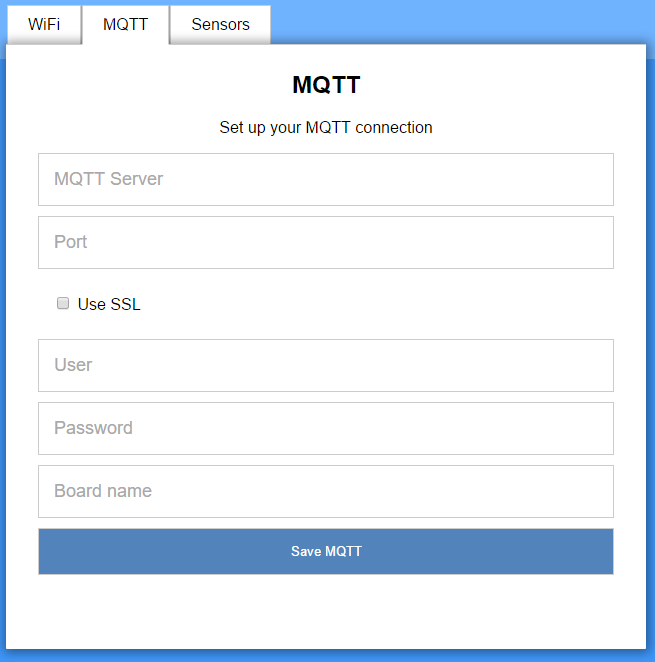
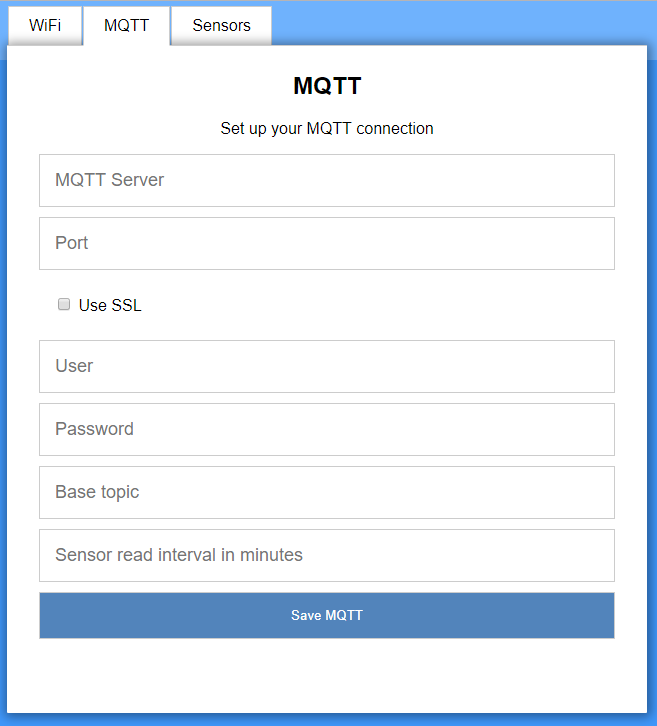
Updated readme

diff --git a/README.md b/README.md
@@ -1,33 +1,38 @@
-# mqtt8266Sensor [![Build Status](https://travis-ci.org/SveLil/mqtt8266Sensor.svg?branch=master)](https://travis-ci.org/SveLil/mqtt8266Sensor) [![Codacy Badge](https://api.codacy.com/project/badge/Grade/0e9e407daa7a449e8e44a02a3651f225)](https://www.codacy.com/app/SveLil/mqtt8266Sensor?utm_source=github.com&utm_medium=referral&utm_content=SveLil/mqtt8266Sensor&utm_campaign=badger)
+# MQTT8266Sensor [![Build Status](https://travis-ci.org/SveLil/MQTT8266Sensor.svg?branch=master)](https://travis-ci.org/SveLil/MQTT8266Sensor) [![Codacy Badge](https://api.codacy.com/project/badge/Grade/0e9e407daa7a449e8e44a02a3651f225)](https://www.codacy.com/app/SveLil/MQTT8266Sensor?utm_source=github.com&utm_medium=referral&utm_content=SveLil/MQTT8266Sensor&utm_campaign=badger)
 
-And ESP8266 based sensor that will send its updates to a MQTT server
+A ESP8266 based sensor that will send its updates to a MQTT server. The goal of this project was to create one firmware that fits all my sensors at home. It should be possible to do all specific configuration through the web UI.
 
 ## Usage
 
-Build and flash to your esp8266 board. When powered on, the board will open a new access point, named "ESP Sensor <ChipId>". After connecting to it, open a web browser and navigate to http://esp.sensor
+Build and flash to your esp8266 board. When powered on, the board will open a new access point, named "ESP Sensor <ChipId>". After connecting to it, open a web browser and navigate to http://esp.sensor or http://1982.168.4.1
 
 You can then enter the credentials of your network:
-![wifi credentials screenshot](https://github.com/SveLil/mqtt8266Sensor/raw/master/doc/wifi.png "wifi credentials Screenshot")
+![wifi credentials screenshot](https://github.com/SveLil/MQTT8266Sensor/raw/master/doc/wifi.png "wifi credentials Screenshot")
 
 You can either fill in the SSID by hand or scan for existing access points.
 
 After your sensor is connected to a network, you can enter the information for the MQTT server:
-![mqtt information screenshot](https://github.com/SveLil/mqtt8266Sensor/raw/master/doc/mqtt.png "mqtt information")
+![MQTT information screenshot](https://github.com/SveLil/MQTT8266Sensor/raw/master/doc/MQTT.png "MQTT information")
 
-The board name is used as the base topic for all sensors connected to the ESP8266. For each sensor, the type (temperature, humidity, etc) will be added. This means, that if you have to temperature sensors connected to your board, both will currently post to the same topic.
+The base topic is used for all sensors connected to the ESP8266. For each sensor, the name will be added, if a sensor has several sub-sensors (like the DTH22). the type (temperature, humidity, etc) will be added, e.g.:
+
+    baseTopic/sensorName/temperature = 26.70
+    baseTopic/sensorName/humidity = 43
 
 On the third tab, you can add/edit/delete information about the sensors that are connected to your board:
-![empty sensor information screenshot](https://github.com/SveLil/mqtt8266Sensor/raw/master/doc/sensor_empty.png "empty sensor information information")
+![empty sensor information screenshot](https://github.com/SveLil/MQTT8266Sensor/raw/master/doc/sensor_empty.png "empty sensor information information")
 
 ## TODO
 * Cleanup HTML, CSS + JavaScript
-  * Use jQuery (+mobile + UI) or similar to create a nicer UI
 * Cleanup serial output
 * ~~~Handle 'undefined' configuration options on the front end correctly, instead of displaying 'undefined'~~~
 * Implement update function through webserver (see [HTTPUpdateServer](https://github.com/esp8266/Arduino/blob/master/libraries/ESP8266HTTPUpdateServer/src/ESP8266HTTPUpdateServer.cpp))
+* Implement OTA update
 * Enable sleep mode
   * Trough UI
   * Through physical switch
-* ~~~Add physical reset button~~~ (if gpio 16 is HIGH on startup, config will be reset)
+* ~~~Add physical reset button~~~ (if GPIO 16 is HIGH on startup, config will be reset)
 * Add maximum number of sensors in UI
 * Show debug output for errors in UI
+* Add units to sensor output
+* Add sensor specific config (for digital and analog)
